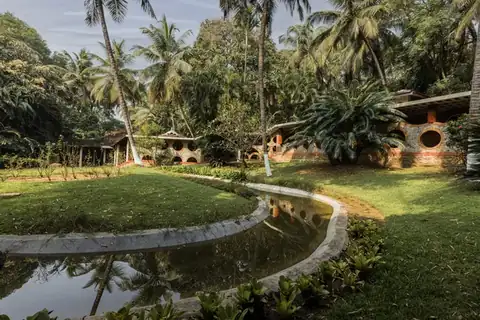
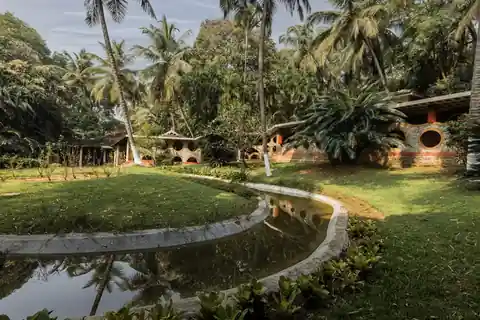
perf(kairali.com): preload and compress mobile hero

diff --git a/sites/kairali-com-rebuild/site/app/page.tsx b/sites/kairali-com-rebuild/site/app/page.tsx
@@ -33,6 +33,8 @@ export default function Home() {
 
   return (
     <>
+      <link rel="preload" as="image" type="image/webp" href="/media/photo/ahv-grounds-pond-480.webp" media="(max-width: 767px)" />
+      <link rel="preload" as="image" type="image/webp" href="/media/photo/ahv-grounds-pond-1600.webp" media="(min-width: 768px)" />
       <section className="home-hero opener" aria-labelledby="page-title">
         <div className="opener-media"><Photograph k="ahv-grounds-pond" p={ph["ahv-grounds-pond"]} sizes="(max-width: 767px) 50vw, 100vw" priority /></div>
         <div className="opener-panel"><div className="container">
